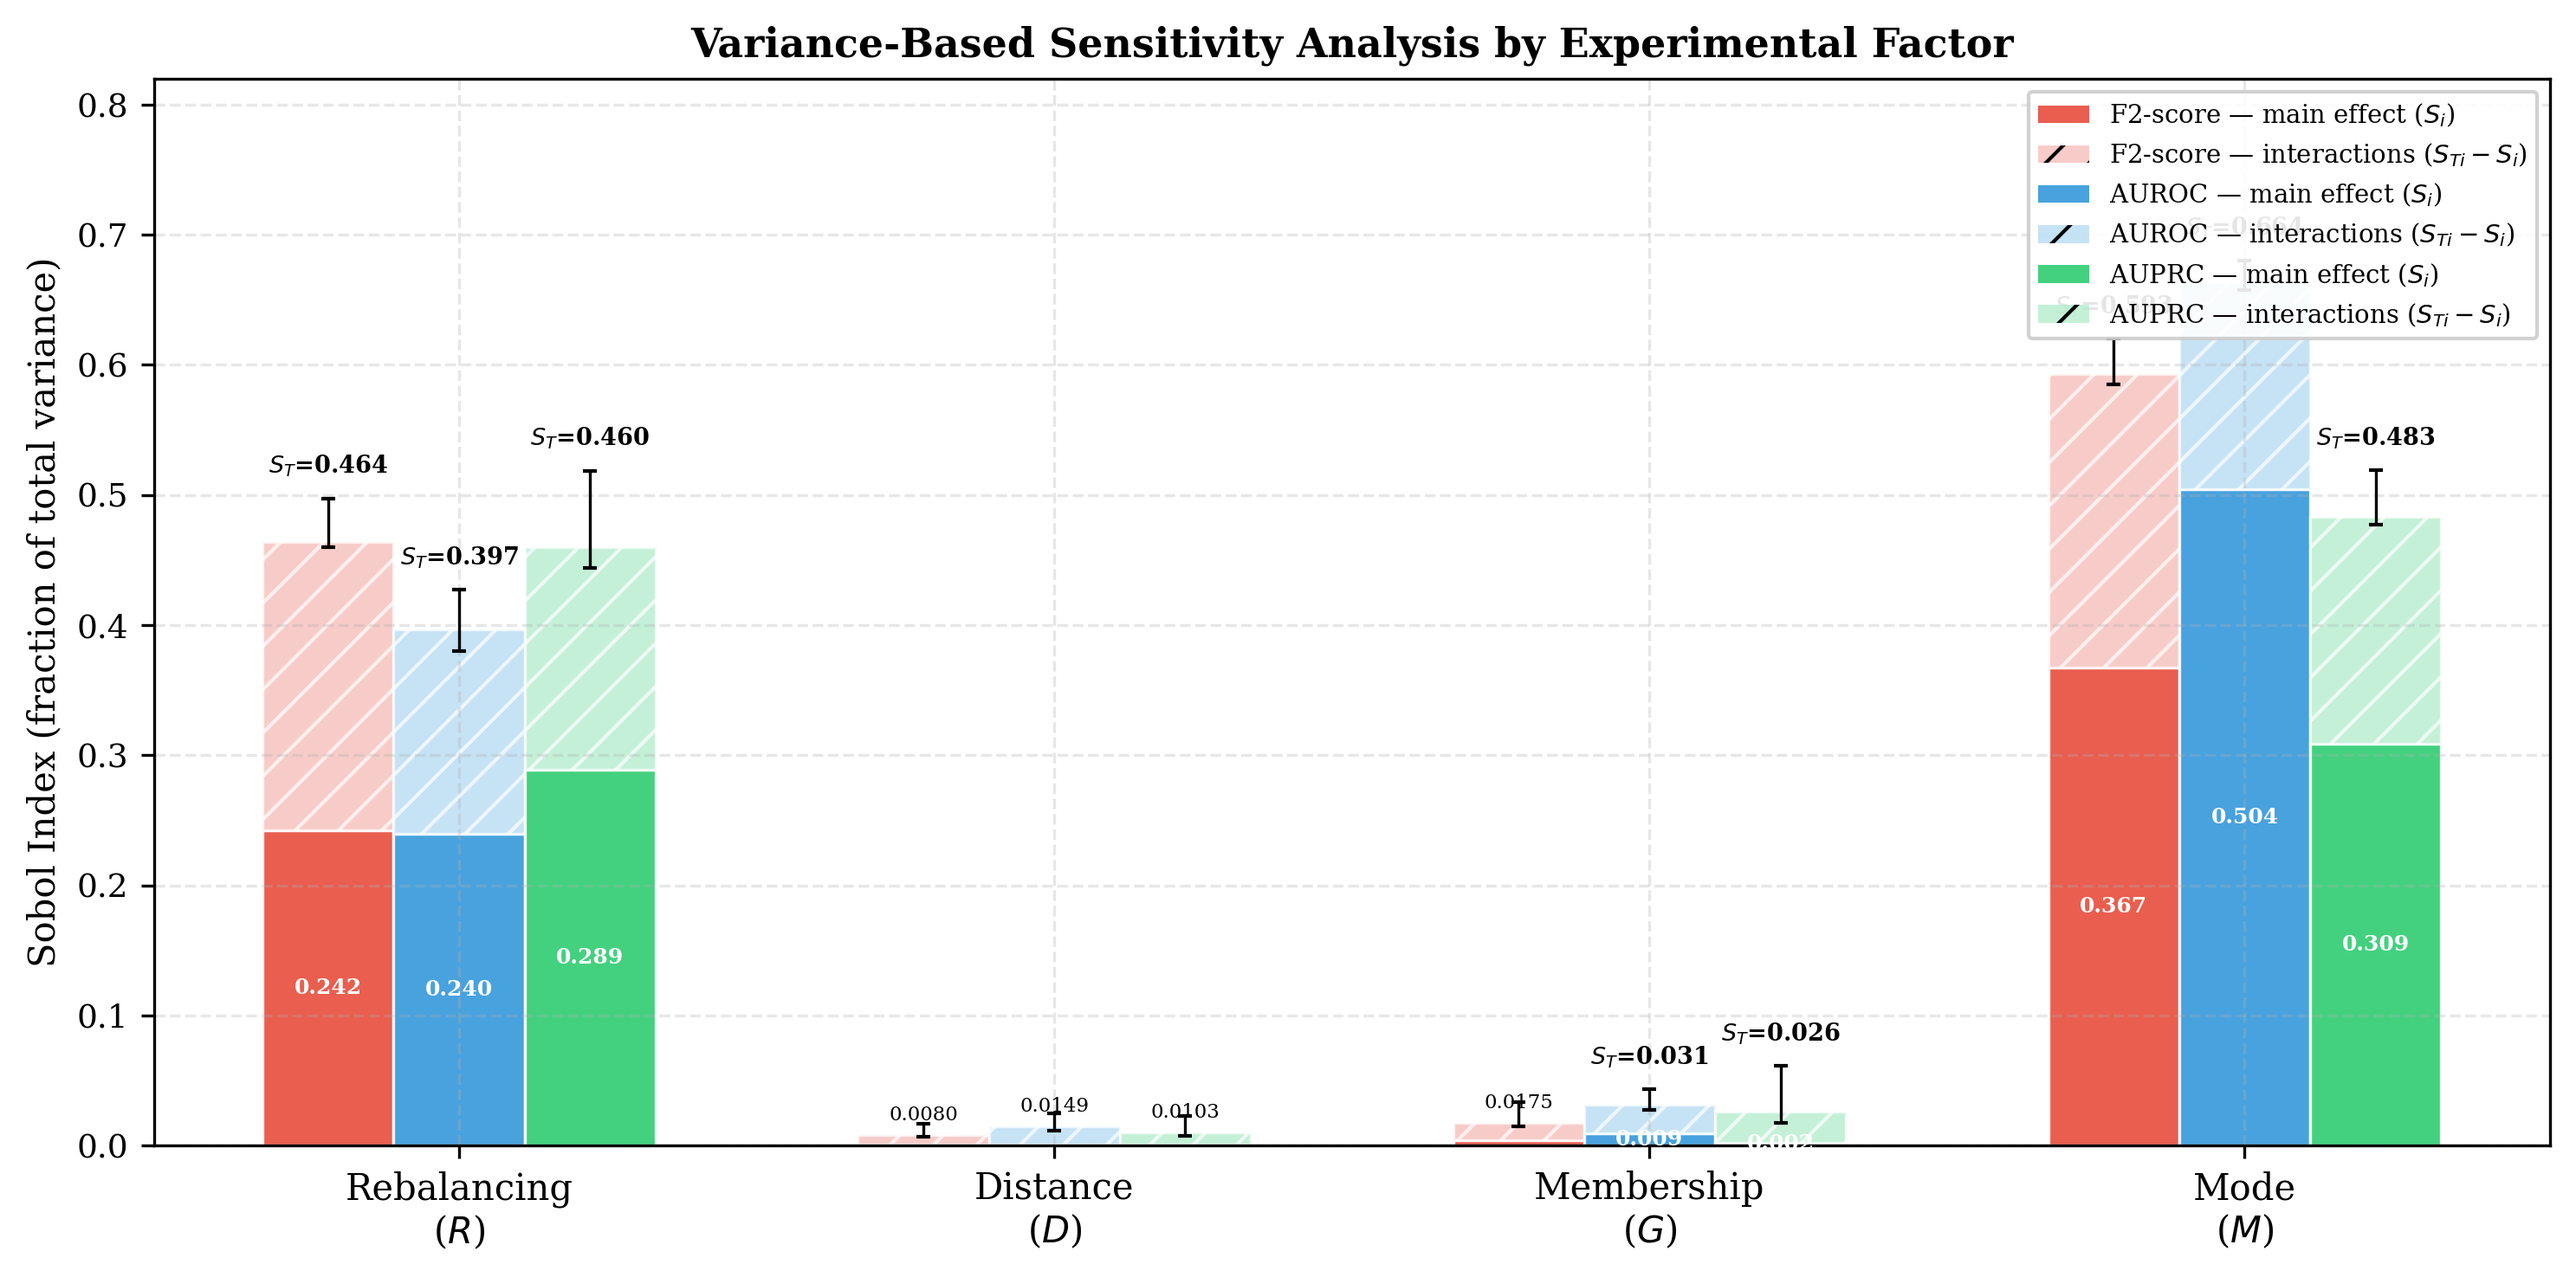
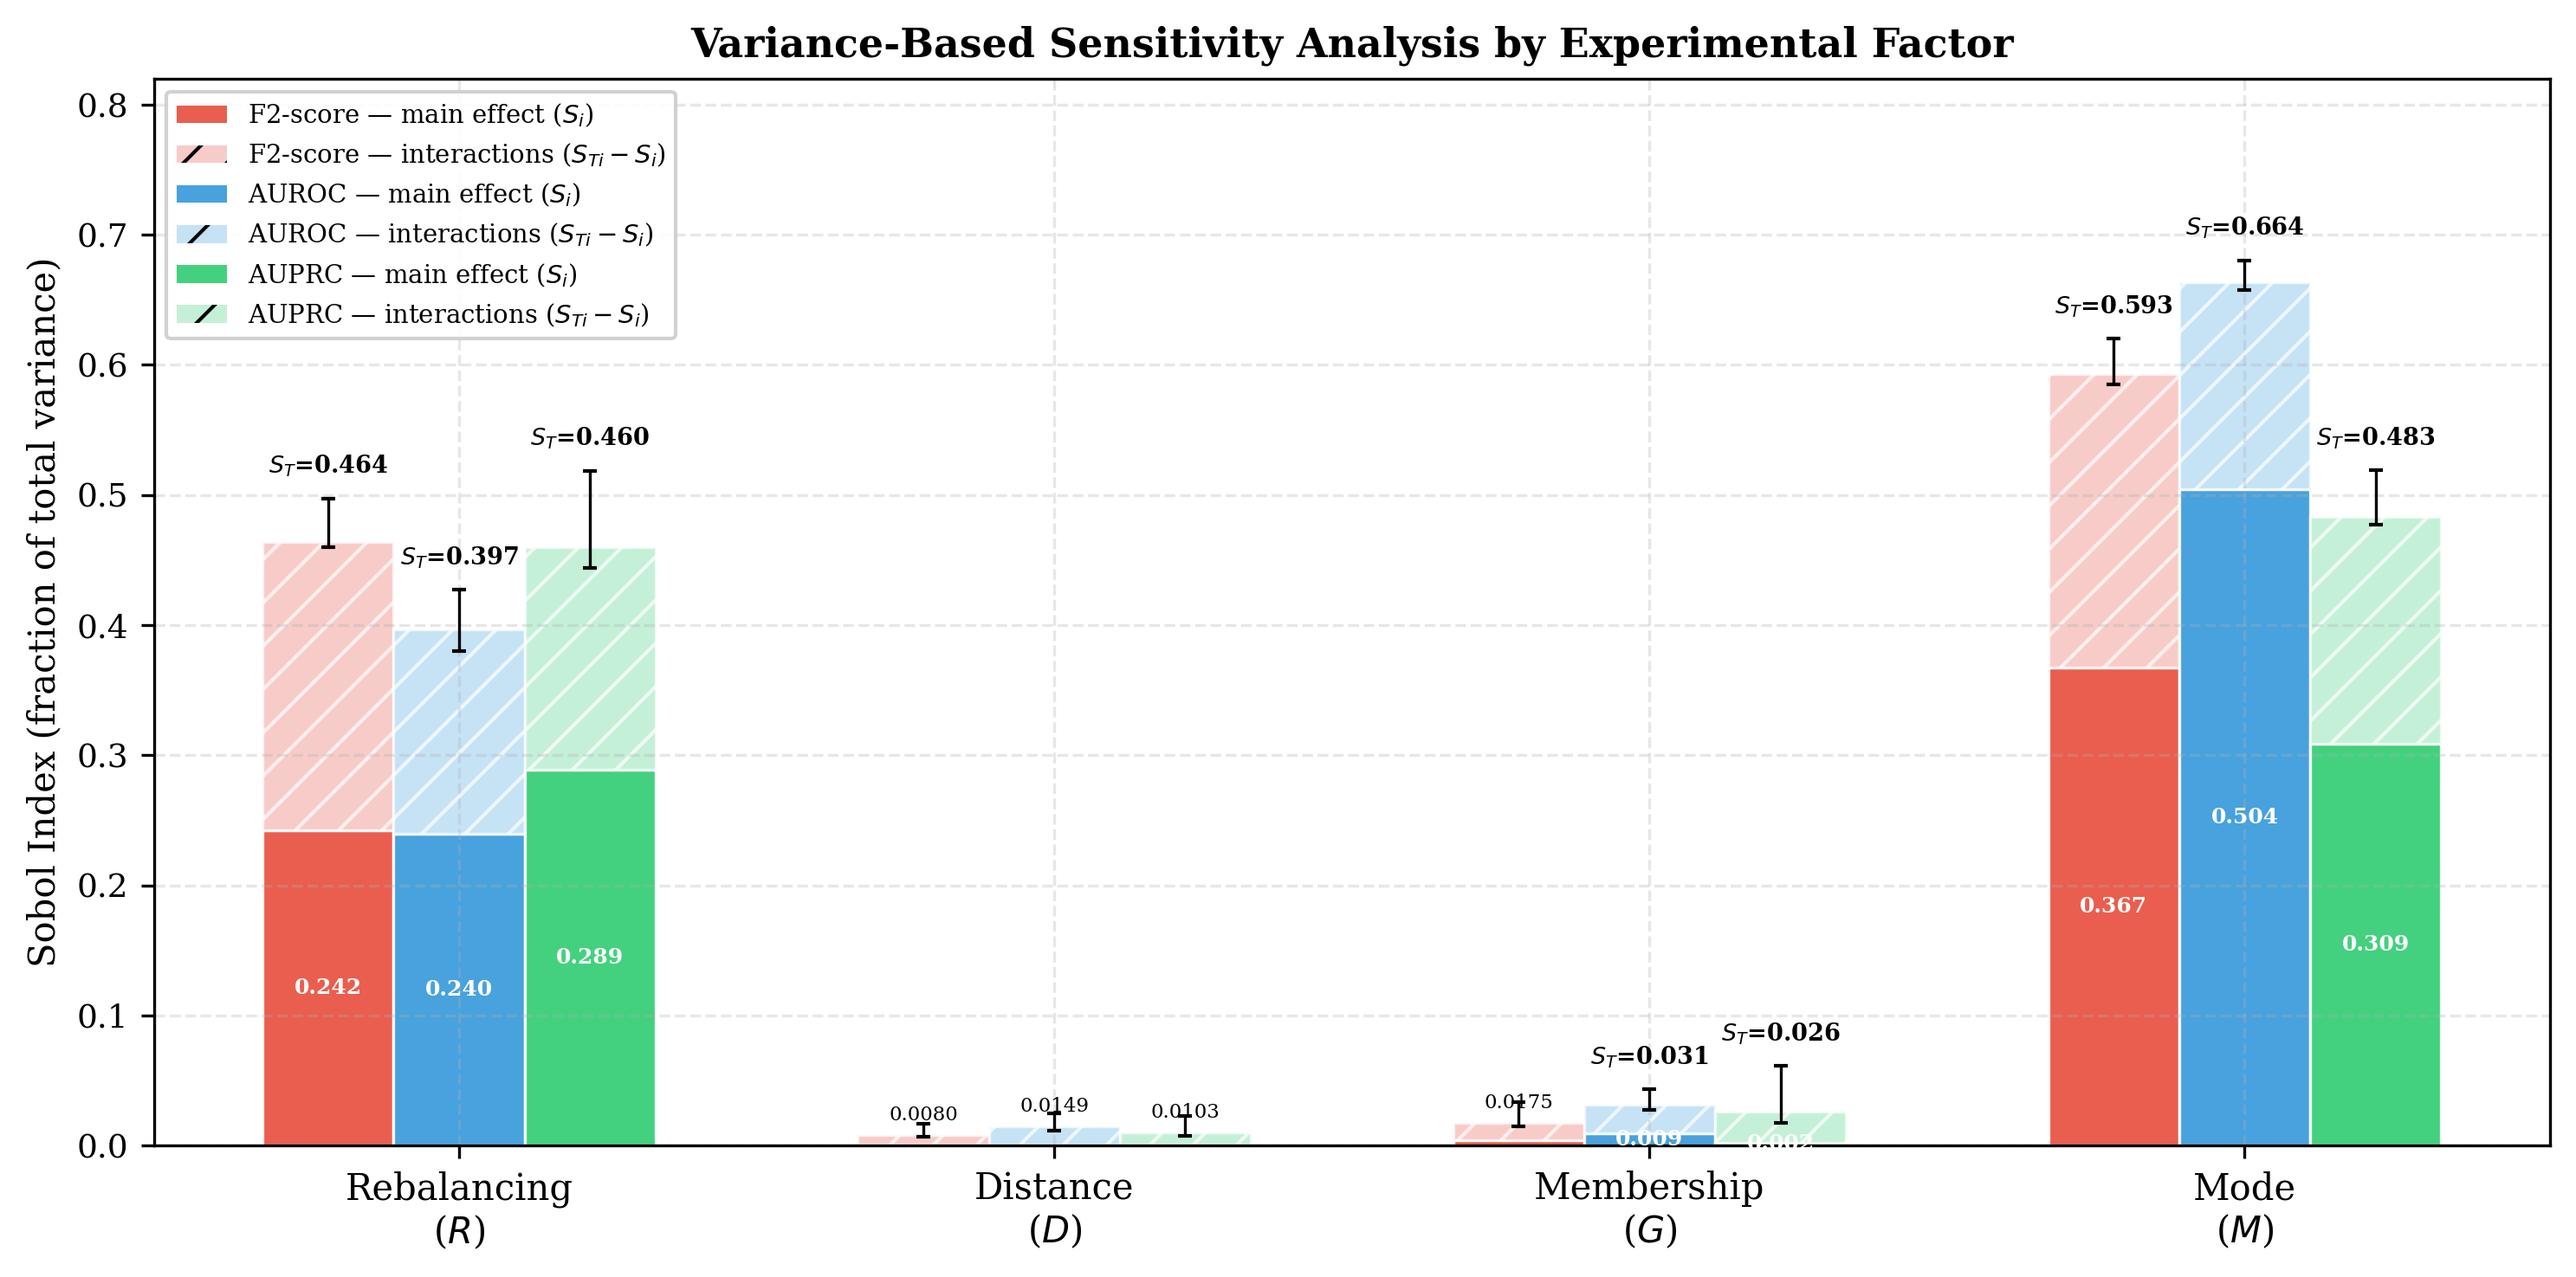
fig2: move legend from upper-right to upper-left to avoid bar overlap

Changed region(s): [[0.7734, 0.0624, 0.9899, 0.2807], [0.0619, 0.0624, 0.2475, 0.2807]]

diff --git a/scripts/python/analysis/domain/plot_journal_figures_v2.py b/scripts/python/analysis/domain/plot_journal_figures_v2.py
@@ -256,7 +256,7 @@ def plot_effect_hierarchy(df: pd.DataFrame):
         legend_elements.append(
             Patch(facecolor=colors_inter[mlabel], alpha=0.7, hatch="//",
                   label=f"{mlabel} — interactions ($S_{{Ti}}-S_i$)"))
-    ax.legend(handles=legend_elements, loc="upper right", framealpha=0.9,
+    ax.legend(handles=legend_elements, loc="upper left", framealpha=0.9,
               fontsize=7, ncol=1)
     ax.set_ylim(0, 0.82)
 
